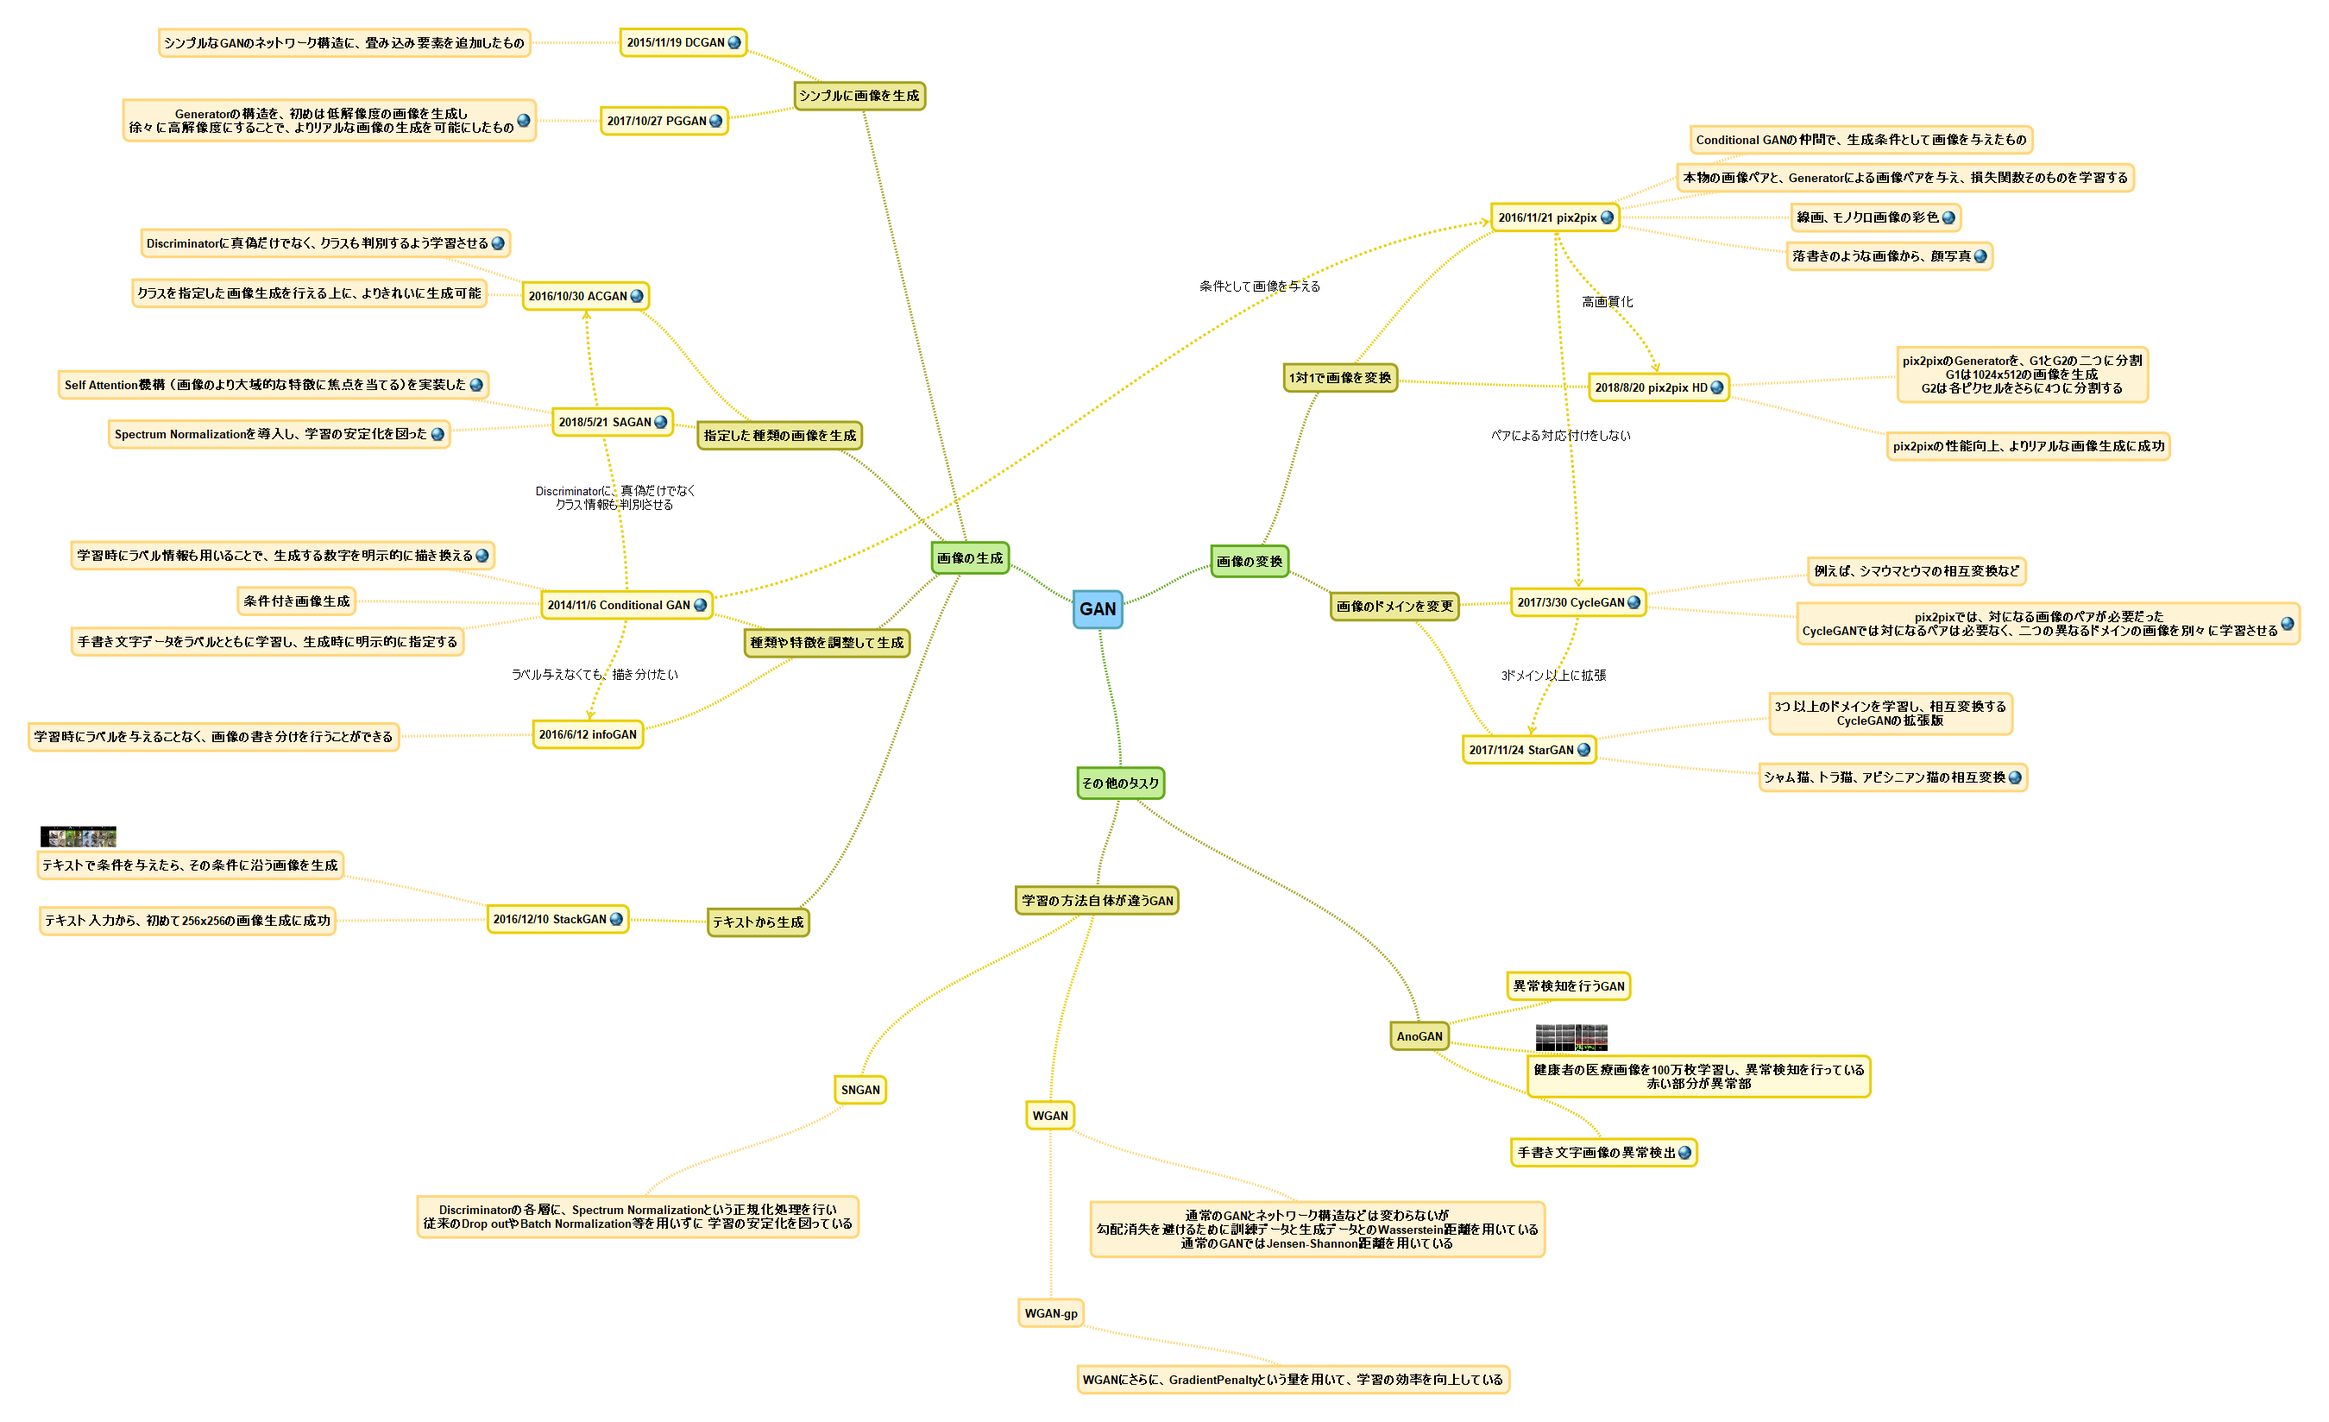
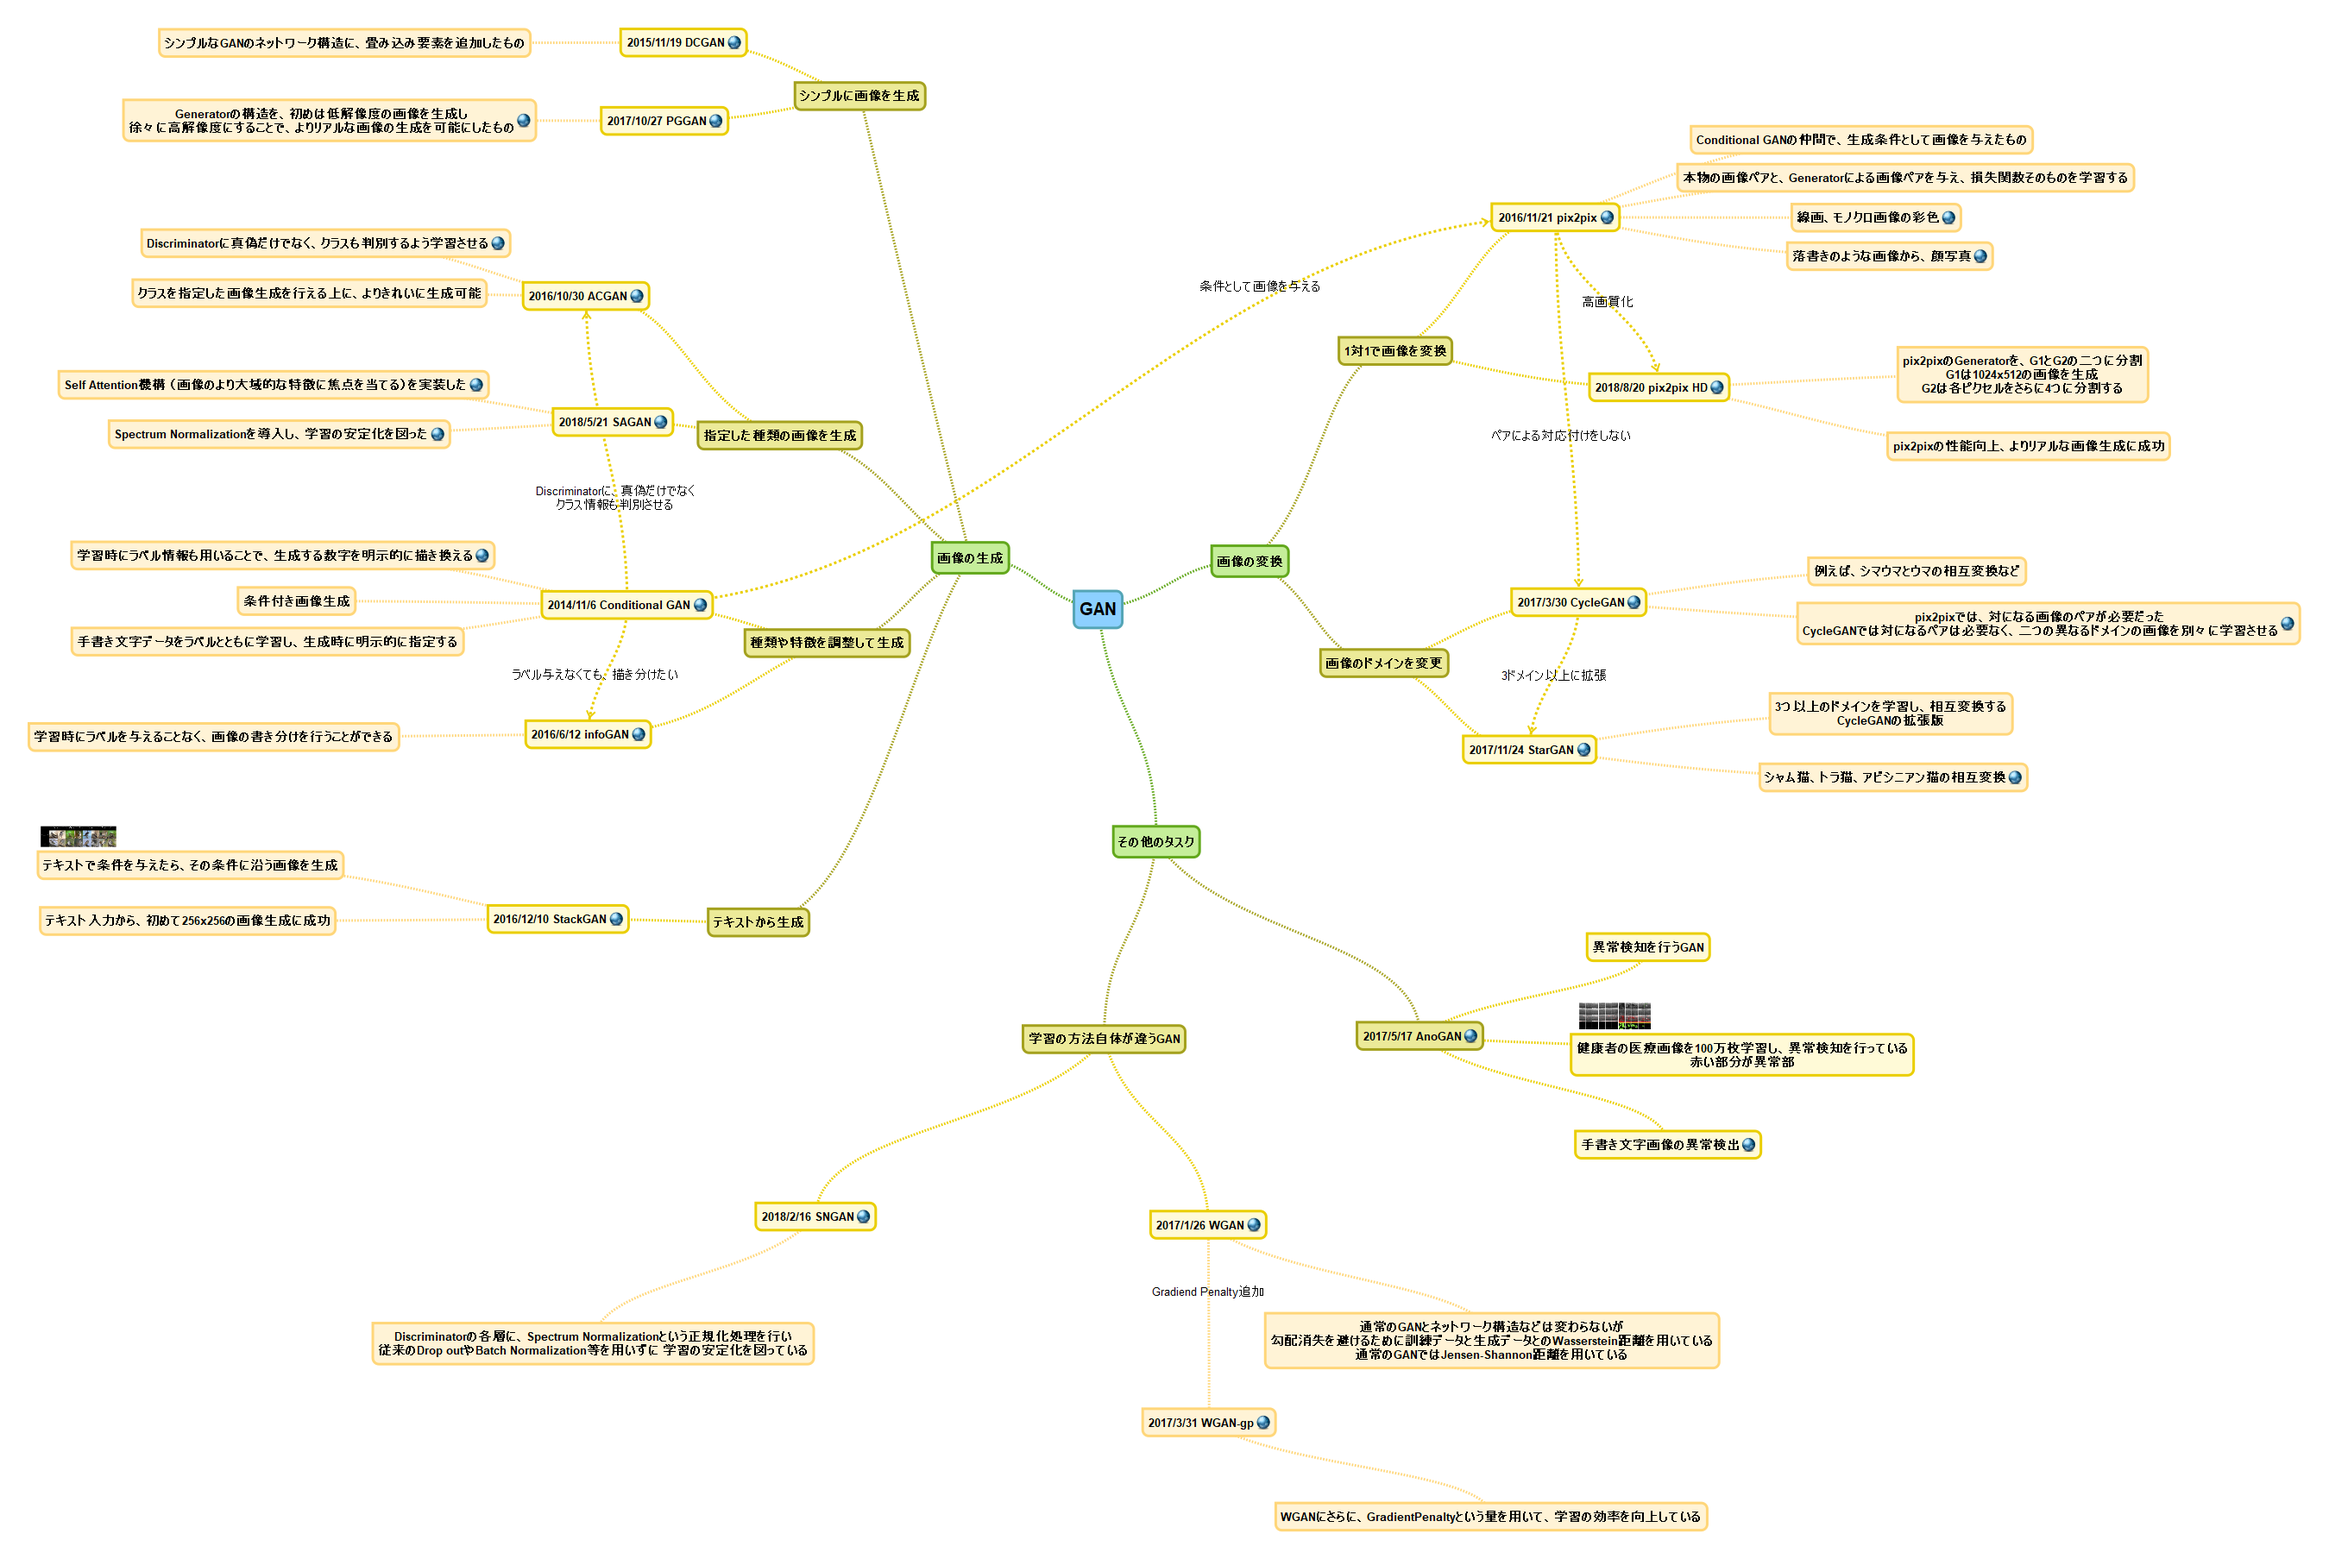
modified some files

diff --git a/index.html b/index.html
@@ -26,10 +26,15 @@ GAN種類
 <area shape="rect" coords="499,495,515,511" href="https://github.com/arXivTimes/arXivTimes/issues/388" target="_blank"/>
 <area shape="rect" coords="804,693,820,709" href="https://arxiv.org/pdf/1411.1784.pdf" target="_blank"/>
 <area shape="rect" coords="551,636,567,652" href="https://qiita.com/triwave33/items/f6352a40bcfbfdea0476#%E6%AC%A1%E3%81%AE%E8%A8%98%E4%BA%8B" target="_blank"/>
+<area shape="rect" coords="732,843,748,859" href="https://arxiv.org/pdf/1606.03657.pdf" target="_blank"/>
 <area shape="rect" coords="706,1057,722,1073" href="https://arxiv.org/pdf/1612.03242.pdf" target="_blank"/>
 <area shape="rect" coords="47,958,135,982" href="files/bird3.png"/>
-<area shape="rect" coords="1779,1185,1864,1219" href="files/AnoGAN.png"/>
-<area shape="rect" coords="1945,1328,1961,1344" href="https://qiita.com/NakaokaRei/items/231ec4efe42dfe79d1ff" target="_blank"/>
+<area shape="rect" coords="1445,1412,1461,1428" href="https://arxiv.org/abs/1701.07875" target="_blank"/>
+<area shape="rect" coords="1456,1641,1472,1657" href="https://arxiv.org/pdf/1704.00028.pdf" target="_blank"/>
+<area shape="rect" coords="993,1402,1009,1418" href="https://arxiv.org/pdf/1802.05957.pdf" target="_blank"/>
+<area shape="rect" coords="1697,1193,1713,1209" href="https://arxiv.org/pdf/1703.05921.pdf" target="_blank"/>
+<area shape="rect" coords="1829,1160,1914,1194" href="files/AnoGAN.png"/>
+<area shape="rect" coords="2019,1319,2035,1335" href="https://qiita.com/NakaokaRei/items/231ec4efe42dfe79d1ff" target="_blank"/>
 </map>
 </body>
 </html>
